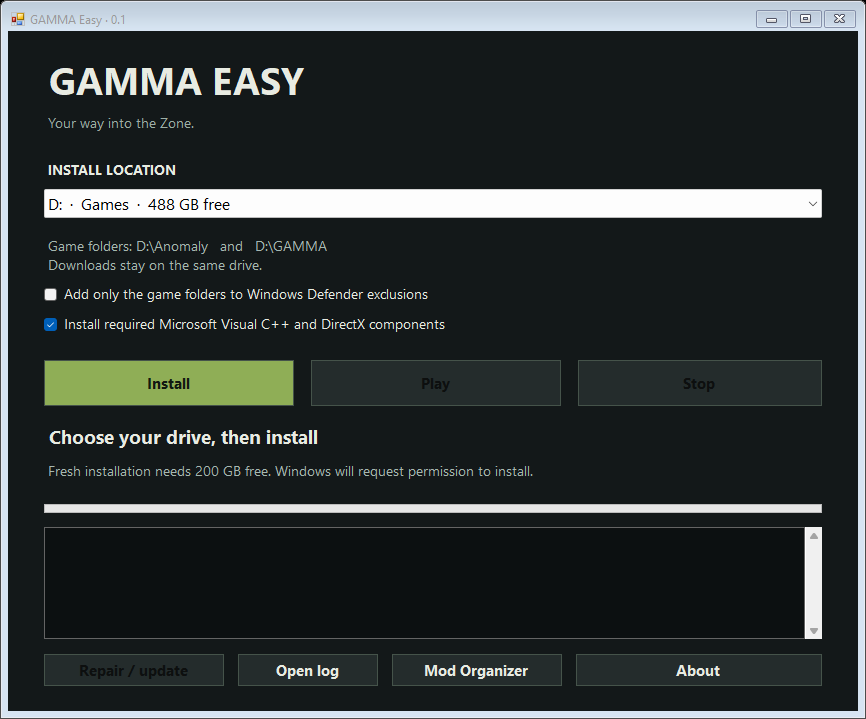
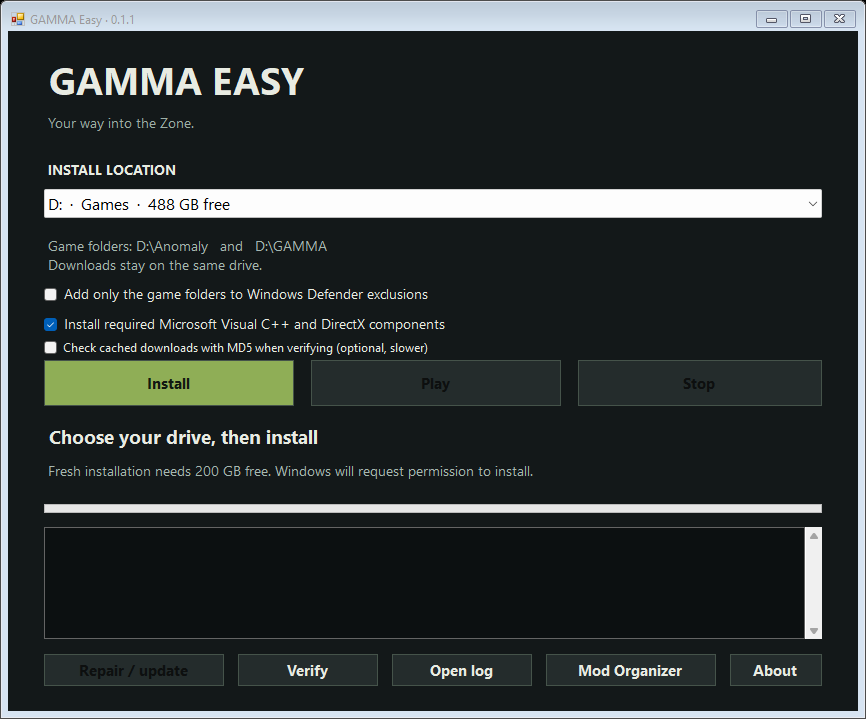
Fix finished-install validation and add optional cached MD5 audit

diff --git a/src/MainForm.cs b/src/MainForm.cs
@@ -27,7 +27,8 @@ class MainForm : Form
     ComboBox drives;
     Label location, status, detail;
     Button install, play, stop, repair;
-    CheckBox exclusions, runtimes;
+    CheckBox exclusions, runtimes, auditMd5;
+    CancellationTokenSource verifyCancel;
     ProgressBar progress;
     TextBox logs;
     InstallState state;
@@ -39,7 +40,7 @@ class MainForm : Form
     internal MainForm(InstallState saved, bool preview)
     {
         state = saved ?? new InstallState();
-        Text = "GAMMA Easy · 0.1"; ClientSize = new Size(850, 680); MinimumSize = Size;
+        Text = "GAMMA Easy · 0.1.1"; ClientSize = new Size(850, 680); MinimumSize = Size;
         BackColor = Color.FromArgb(19, 24, 25); ForeColor = Color.FromArgb(232, 235, 226);
         Font = new Font("Segoe UI", 10); StartPosition = FormStartPosition.CenterScreen;
         Controls.Add(new Label { Text = "GAMMA EASY", Font = new Font("Segoe UI", 28, FontStyle.Bold), Bounds = new Rectangle(32, 23, 600, 57) });
@@ -50,6 +51,7 @@ class MainForm : Form
         location = new Label { Bounds = new Rectangle(36, 205, 778, 44), ForeColor = Color.FromArgb(166, 183, 176) }; Controls.Add(location);
         exclusions = new CheckBox { Text = "Add only the game folders to Windows Defender exclusions", Bounds = new Rectangle(36, 251, 778, 26), Checked = state.Exclusions }; Controls.Add(exclusions);
         runtimes = new CheckBox { Text = "Install required Microsoft Visual C++ and DirectX components", Bounds = new Rectangle(36, 281, 778, 26), Checked = state.Runtimes }; Controls.Add(runtimes);
+        auditMd5 = new CheckBox { Text = "Check cached downloads with MD5 when verifying (optional, slower)", Bounds = new Rectangle(36, 307, 778, 21), Checked = false, Font = new Font("Segoe UI", 9) }; Controls.Add(auditMd5);
         install = MakeButton("Install", 36, 329, 250, true); install.Click += StartInstall;
         play = MakeButton("Play", 303, 329, 250, false); play.Click += Play;
         stop = MakeButton("Stop", 570, 329, 244, false); stop.Enabled = false; stop.Click += Cancel;
@@ -58,12 +60,14 @@ class MainForm : Form
         progress = new ProgressBar { Bounds = new Rectangle(36, 473, 778, 9), Style = ProgressBarStyle.Continuous }; Controls.Add(progress);
         logs = new TextBox { Bounds = new Rectangle(36, 496, 778, 112), Multiline = true, ReadOnly = true, ScrollBars = ScrollBars.Vertical, BackColor = Color.FromArgb(12, 16, 17), ForeColor = Color.FromArgb(174, 192, 174), Font = new Font("Consolas", 9), BorderStyle = BorderStyle.FixedSingle }; Controls.Add(logs);
         repair = MakeButton("Repair / update", 36, 623, 180, false); repair.Height = 32; repair.Click += StartInstall;
-        var openLogs = MakeButton("Open log", 230, 623, 140, false); openLogs.Height = 32; openLogs.Click += (s, e) => { if (File.Exists(Program.LogFile)) Process.Start("notepad.exe", Program.Quote(Program.LogFile)); };
-        var openMods = MakeButton("Mod Organizer", 384, 623, 170, false); openMods.Height = 32; openMods.Click += (s, e) => { if (!busy && !string.IsNullOrEmpty(state.Root)) OpenMo2(false); };
-        var license = MakeButton("About", 568, 623, 246, false); license.Height = 32; license.Click += (s, e) => MessageBox.Show("GAMMA Easy 0.1.0\nIndependent community app. Not affiliated with GAMMA, GSC or FaithBeam.\n\nInstaller engine: FaithBeam/stalker-gamma-cli 1.37.1\nhttps://github.com/FaithBeam/stalker-gamma-cli\n\nGPL-3.0-or-later. Source and third-party notices accompany this build.\nNo game files are bundled. Antivirus is never disabled.\n\nThis first build has not completed a full game installation test.", "About GAMMA Easy");
+        var verify = MakeButton("Verify", 230, 623, 140, false); verify.Height = 32;
+        verify.Click += VerifyCompleted;
+        var openLogs = MakeButton("Open log", 384, 623, 140, false); openLogs.Height = 32; openLogs.Click += (s, e) => { if (File.Exists(Program.LogFile)) Process.Start("notepad.exe", Program.Quote(Program.LogFile)); };
+        var openMods = MakeButton("Mod Organizer", 538, 623, 170, false); openMods.Height = 32; openMods.Click += (s, e) => { if (!busy && !string.IsNullOrEmpty(state.Root)) OpenMo2(false); };
+        var license = MakeButton("About", 722, 623, 92, false); license.Height = 32; license.Click += (s, e) => MessageBox.Show("GAMMA Easy 0.1.1\nIndependent community app. Not affiliated with GAMMA, GSC or FaithBeam.\n\nInstaller engine: FaithBeam/stalker-gamma-cli 1.37.1\nhttps://github.com/FaithBeam/stalker-gamma-cli\n\nGPL-3.0-or-later. Source and third-party notices accompany this build.\nNo game files are bundled. Antivirus is never disabled.\n\nGameplay still requires a real validation test.", "About GAMMA Easy");
         drives.SelectedIndexChanged += (s, e) => RefreshReady();
         timer = new System.Windows.Forms.Timer { Interval = 500 }; timer.Tick += Poll;
-        FormClosing += (s, e) => { if (busy) { Cancel(s, EventArgs.Empty); e.Cancel = true; } };
+        FormClosing += (s, e) => { if (verifyCancel != null) verifyCancel.Cancel(); if (busy) { Cancel(s, EventArgs.Empty); e.Cancel = true; } };
         if (preview)
         {
             drives.Items.Add(new DriveChoice { Root = "D:\\", Text = "D:  ·  Games  ·  488 GB free" }); drives.SelectedIndex = 0; return;
@@ -139,9 +143,40 @@ class MainForm : Form
     }
     void Cancel(object sender, EventArgs e)
     {
+        if (verifyCancel != null) { verifyCancel.Cancel(); status.Text = "Stopping cache check…"; stop.Enabled = false; return; }
         if (!busy) return;
         File.WriteAllText(Path.Combine(Program.Home, "cancel-" + request), "cancel");
         stop.Enabled = false; status.Text = "Stopping safely…";
+    }
+    async void VerifyCompleted(object sender, EventArgs e)
+    {
+        if (busy || verifyCancel != null) return;
+        if (SelectedRoot != state.Root) { detail.Text = "Select the installed game drive before verifying."; return; }
+        bool audit = auditMd5.Checked;
+        verifyCancel = new CancellationTokenSource(); var cancel = verifyCancel.Token;
+        install.Enabled = repair.Enabled = play.Enabled = drives.Enabled = auditMd5.Enabled = false;
+        stop.Enabled = true; status.Text = audit ? "Checking installation and cached MD5…" : "Checking installation…";
+        progress.Style = ProgressBarStyle.Marquee; timer.Start();
+        try
+        {
+            string summary = await Task.Run(() =>
+            {
+                int count = InstallationRecovery.VerifyFinished();
+                if (!audit) return count + " enabled mods verified. No downloads, extraction or archive MD5 scan.";
+                var result = CacheAudit.Run(state.Root + "GAMMA", cancel, Program.Log);
+                Program.Log(result.Summary);
+                return result.Summary + (result.Corrupt.Count > 0 ? " See the log; game-file verification passed." : " Game-file verification passed.");
+            });
+            if (IsDisposed) return;
+            state = Program.LoadState(); RefreshReady(); detail.Text = summary;
+        }
+        catch (OperationCanceledException) { if (!IsDisposed) { state = Program.LoadState(); RefreshReady(); detail.Text = "Optional cache check stopped; no files were changed."; } }
+        catch (Exception error) { if (!IsDisposed) { status.Text = "Verification needs attention"; detail.Text = error.Message; } }
+        finally
+        {
+            verifyCancel.Dispose(); verifyCancel = null;
+            if (!IsDisposed) { timer.Stop(); progress.Style = ProgressBarStyle.Continuous; drives.Enabled = auditMd5.Enabled = true; stop.Enabled = false; repair.Enabled = true; install.Enabled = state.Phase != "Ready"; }
+        }
     }
     void Poll(object sender, EventArgs e)
     {

diff --git a/tests/SelfTests.cs b/tests/SelfTests.cs
@@ -86,6 +86,31 @@ static class SelfTests
         string mod = Path.Combine(gamma, "mods", "TestMod"); Directory.CreateDirectory(mod); File.WriteAllText(Path.Combine(mod, "meta.ini"), "fixture");
         rejected = false; try { Safety.VerifyGame(anomaly, gamma); } catch { rejected = true; } check(rejected, "metadata-only mod blocks Play");
         File.WriteAllText(Path.Combine(mod, "test.ltx"), "fixture"); check(Safety.VerifyGame(anomaly, gamma) == 1, "complete fixture verifies");
+        string iniPath = Path.Combine(gamma, "ModOrganizer.ini");
+        string originalIni = File.ReadAllText(iniPath);
+        File.WriteAllText(iniPath, originalIni.Replace(anomaly.Replace('\\', '/'), anomaly.Replace(@"\", @"\\")));
+        check(Safety.VerifyGame(anomaly, gamma) == 1, "MO2 escaped Windows path verifies");
+        check(!Safety.SameGamePath("@ByteArray(D:\\\\Other)", "D:\\Anomaly"), "different game path still refused");
+        string canonical = Path.Combine(gamma, "mods", InstallationRecovery.CorrectName); Directory.CreateDirectory(canonical); File.WriteAllText(Path.Combine(canonical, "payload.ltx"), "fixture");
+        File.WriteAllLines(Path.Combine(profile, "modlist.txt"), new[] { "-" + InstallationRecovery.CorrectName, "+" + InstallationRecovery.BrokenName, "+TestMod" });
+        check(InstallationRecovery.RepairKnownAlias(gamma), "known upstream alias is repaired");
+        var repaired = File.ReadAllLines(Path.Combine(profile, "modlist.txt"));
+        check(repaired.Length == 2 && repaired[0] == "+" + InstallationRecovery.CorrectName, "alias preserves enabled entry priority without duplicate");
+        check(Directory.GetFiles(profile, "*.bak").Length == 1, "profile backed up before repair");
+        check(!InstallationRecovery.RepairKnownAlias(gamma), "alias repair is idempotent");
+        File.WriteAllLines(Path.Combine(profile, "modlist.txt"), new[] { "-" + InstallationRecovery.CorrectName, "+TestMod" });
+        check(!InstallationRecovery.RepairKnownAlias(gamma) && File.ReadAllLines(Path.Combine(profile, "modlist.txt"))[0].StartsWith("-"), "intentional disabled canonical mod is preserved");
+        string cache = Path.Combine(gamma, "downloads"); Directory.CreateDirectory(cache);
+        File.WriteAllText(Path.Combine(cache, "sample.zip"), "abc", new UTF8Encoding(false));
+        File.WriteAllText(Path.Combine(profile, "modpack_maker_list.txt"), "url\t0\tpatch\tname\tpage\tsample.zip\t900150983cd24fb0d6963f7d28e17f72\n");
+        var audit = CacheAudit.Run(gamma, CancellationToken.None, null);
+        check(audit.Checked == 1 && audit.Corrupt.Count == 0, "optional cached MD5 audit accepts correct bytes");
+        File.WriteAllText(Path.Combine(cache, "sample.zip"), "changed");
+        check(CacheAudit.Run(gamma, CancellationToken.None, null).Corrupt.Count == 1, "cached MD5 mismatch detected without deleting files");
+        var cancelled = new CancellationTokenSource(); cancelled.Cancel(); rejected = false;
+        try { CacheAudit.Run(gamma, cancelled.Token, null); } catch (OperationCanceledException) { rejected = true; }
+        check(rejected, "MD5 audit can be cancelled");
+        File.WriteAllText(Path.Combine(profile, "modlist.txt"), "+UnknownMod\n"); rejected = false; try { Safety.VerifyGame(anomaly, gamma); } catch { rejected = true; } check(rejected, "unknown missing mod is still refused");
         File.WriteAllText(Path.Combine(profile, "modlist.txt"), "+..\n"); rejected = false; try { Safety.VerifyGame(anomaly, gamma); } catch { rejected = true; } check(rejected, "mod path traversal refused");
         File.WriteAllLines(Path.Combine(reportFolder, "test-results.txt"), checks); return 0;
     }

diff --git a/src/CacheAudit.cs b/src/CacheAudit.cs
@@ -1,0 +1,60 @@
+// Copyright (C) 2026. GPL-3.0-or-later.
+using System;
+using System.Collections.Generic;
+using System.IO;
+using System.Security.Cryptography;
+using System.Text.RegularExpressions;
+using System.Threading;
+
+class CacheAuditResult
+{
+    internal int Checked, Unavailable, Unsupported;
+    internal readonly List<string> Corrupt = new List<string>();
+    internal string Summary { get { return "MD5 cache check: " + Checked + " checked, " + Corrupt.Count + " mismatched, " + Unavailable + " unavailable, " + Unsupported + " without usable published MD5."; } }
+}
+
+static class CacheAudit
+{
+    internal static CacheAuditResult Run(string gamma, CancellationToken cancel, Action<string> progress)
+    {
+        var result = new CacheAuditResult();
+        var expected = new Dictionary<string, string>(StringComparer.OrdinalIgnoreCase);
+        string manifest = Path.Combine(gamma, "profiles", "G.A.M.M.A", "modpack_maker_list.txt");
+        foreach (string row in File.ReadLines(manifest))
+        {
+            cancel.ThrowIfCancellationRequested();
+            var fields = row.Split('\t');
+            if (fields.Length < 7) continue;
+            string name = fields[5].Trim(), md5 = fields[6].Trim().ToLowerInvariant();
+            if (name.Length == 0 || name != Path.GetFileName(name) || name.IndexOfAny(Path.GetInvalidFileNameChars()) >= 0 || !Regex.IsMatch(md5, "^[a-f0-9]{32}$")) { result.Unsupported++; continue; }
+            string previous;
+            if (expected.TryGetValue(name, out previous) && previous != md5) throw new InvalidDataException("Conflicting MD5 values in the saved manifest: " + name);
+            expected[name] = md5;
+        }
+        // Base archive has a published digest in the pinned backend source.
+        expected["Anomaly-1.5.3-Full.2.7z"] = "d6bce51a4e6d98f9610ef0aa967ba964";
+        foreach (var entry in expected)
+        {
+            cancel.ThrowIfCancellationRequested();
+            string path = Path.Combine(gamma, "downloads", entry.Key);
+            if (!File.Exists(path)) { result.Unavailable++; continue; }
+            Safety.RejectReparseParents(path);
+            if (progress != null) progress("Checking MD5: " + entry.Key);
+            string actual = HashFile(path, cancel);
+            result.Checked++;
+            if (actual != entry.Value) { result.Corrupt.Add(entry.Key); if (progress != null) progress("MD5 mismatch: " + entry.Key); }
+        }
+        return result;
+    }
+    internal static string HashFile(string path, CancellationToken cancel)
+    {
+        using (var md5 = MD5.Create())
+        using (var file = File.OpenRead(path))
+        {
+            var buffer = new byte[131072]; int count;
+            while ((count = file.Read(buffer, 0, buffer.Length)) > 0) { cancel.ThrowIfCancellationRequested(); md5.TransformBlock(buffer, 0, count, buffer, 0); }
+            cancel.ThrowIfCancellationRequested(); md5.TransformFinalBlock(new byte[0], 0, 0);
+            return BitConverter.ToString(md5.Hash).Replace("-", "").ToLowerInvariant();
+        }
+    }
+}

diff --git a/src/InstallationRecovery.cs b/src/InstallationRecovery.cs
@@ -1,0 +1,48 @@
+// Copyright (C) 2026. GPL-3.0-or-later.
+using System;
+using System.Diagnostics;
+using System.IO;
+using System.Linq;
+using System.Text;
+
+static class InstallationRecovery
+{
+    internal const string BrokenName = "DarkasleQif's and iTheon's Parts Condition Color Thresholds Changes";
+    internal const string CorrectName = "Darkasleif's and iTheon's Parts Condition Color Thresholds Changes";
+
+    internal static bool RepairKnownAlias(string gamma)
+    {
+        string profile = Path.Combine(gamma, "profiles", "G.A.M.M.A", "modlist.txt");
+        string actual = Path.Combine(gamma, "mods", CorrectName);
+        var lines = File.ReadAllLines(profile);
+        if (!lines.Contains("+" + BrokenName) || !Directory.Exists(actual) ||
+            !Directory.EnumerateFileSystemEntries(actual).Any(x => Path.GetFileName(x) != "meta.ini")) return false;
+        if (Process.GetProcessesByName("ModOrganizer").Length > 0) throw new IOException("Close Mod Organizer before repairing the profile.");
+        Safety.RejectReparseParents(profile);
+        File.Copy(profile, profile + ".before-alias-" + Guid.NewGuid().ToString("N") + ".bak");
+        // Retain the upstream entry's position and enabled state; remove a duplicate
+        // canonical entry only when this exact upstream typo was present and enabled.
+        var repaired = lines.Where(x => x != "+" + CorrectName && x != "-" + CorrectName)
+            .Select(x => x == "+" + BrokenName ? "+" + CorrectName : x).ToArray();
+        File.WriteAllLines(profile, repaired, new UTF8Encoding(false));
+        return true;
+    }
+
+    internal static int VerifyFinished()
+    {
+        if (Process.GetProcessesByName("stalker-gamma").Length > 0 || Process.GetProcessesByName("ModOrganizer").Length > 0)
+            throw new IOException("Close Mod Organizer and let any active installation finish before verifying.");
+        var state = Program.LoadState();
+        var folders = Safety.GameFolders(state.Root);
+        if (!File.Exists(Program.LogFile)) throw new IOException("No completed installation log was found.");
+        string log = File.ReadAllText(Program.LogFile);
+        if (!Safety.Successful(log, 0) || !log.Contains("--gamma " + Program.Quote(folders[1])))
+            throw new IOException("The log does not confirm a completed backend installation for this drive. Use Retry installation.");
+        Safety.ValidateDrive(state.Root, false);
+        if (RepairKnownAlias(folders[1])) Program.Log("Corrected the known GAMMA profile name: " + CorrectName);
+        int count = Safety.VerifyGame(folders[0], folders[1]);
+        state.Phase = "Ready"; state.Error = ""; Program.SaveState(state);
+        Program.Log("Verification passed: " + count + " enabled mods. No downloads or extraction were performed.");
+        return count;
+    }
+}

diff --git a/src/Safety.cs b/src/Safety.cs
@@ -114,8 +114,8 @@ static class Safety
             if (!File.Exists(Path.Combine(gamma, file))) throw new IOException("Missing GAMMA file: " + file);
         string ini = File.ReadAllText(Path.Combine(gamma, "ModOrganizer.ini"));
         if (!ini.Contains("selected_profile=@ByteArray(G.A.M.M.A)")) throw new IOException("The GAMMA profile is not configured.");
-        string expected = "gamePath=@ByteArray(" + anomaly.Replace('\\', '/') + ")";
-        if (ini.IndexOf(expected, StringComparison.OrdinalIgnoreCase) < 0) throw new IOException("Mod Organizer points to the wrong Anomaly folder.");
+        var gamePath = Regex.Match(ini, @"(?m)^gamePath=(.*)$");
+        if (!gamePath.Success || !SameGamePath(gamePath.Groups[1].Value.Trim(), anomaly)) throw new IOException("Mod Organizer points to the wrong Anomaly folder.");
         if (!ini.Contains("title=Anomaly (DX11)")) throw new IOException("The DX11 launch entry is missing.");
         int count = 0;
         foreach (string raw in File.ReadLines(Path.Combine(gamma, "profiles", "G.A.M.M.A", "modlist.txt")))
@@ -133,6 +133,13 @@ static class Safety
         }
         if (count == 0) throw new IOException("No enabled mods were found.");
         return count;
+    }
+    internal static bool SameGamePath(string encoded, string expected)
+    {
+        if (encoded.StartsWith("@ByteArray(") && encoded.EndsWith(")")) encoded = encoded.Substring(11, encoded.Length - 12);
+        encoded = encoded.Replace(@"\\", @"\").Replace('/', '\\');
+        try { return Path.IsPathRooted(encoded) && Path.GetFullPath(encoded).TrimEnd('\\').Equals(Path.GetFullPath(expected).TrimEnd('\\'), StringComparison.OrdinalIgnoreCase); }
+        catch { return false; }
     }
     internal static bool Successful(string output, int exitCode)
     {

diff --git a/src/Worker.cs b/src/Worker.cs
@@ -43,7 +43,7 @@ static class Worker
             {
             try
             {
-                File.WriteAllText(Program.LogFile, "GAMMA Easy 0.1.0 | FaithBeam backend release 1.37.1\r\n");
+                File.WriteAllText(Program.LogFile, "GAMMA Easy 0.1.1 | FaithBeam backend release 1.37.1\r\n");
                 Program.Log("Checking drive and existing folders…");
                 Safety.ValidateDrive(state.Root, true);
                 Program.ExtractBackend(Path.Combine(Program.Home, "backend"));
@@ -60,6 +60,7 @@ static class Worker
                 if (!Safety.Successful(output, 0)) throw new IOException("The installer did not confirm completion. Read the log and retry.");
                 CheckCancel();
                 Program.Log("Checking DX11, first-run defaults, Mod Organizer and enabled mods…");
+                if (InstallationRecovery.RepairKnownAlias(folders[1])) Program.Log("Corrected a known upstream GAMMA profile naming mismatch.");
                 int count = Safety.VerifyGame(folders[0], folders[1]);
                 Program.Log("Verified " + count + " enabled mods. Ready to play.");
                 state.Phase = "Ready"; state.Error = ""; Program.SaveState(state); return 0;

diff --git a/src/Program.cs b/src/Program.cs
@@ -24,7 +24,7 @@ using System.Xml.Serialization;
 
 [assembly: AssemblyTitle("GAMMA Easy")]
 [assembly: AssemblyDescription("Independent Anomaly and GAMMA installer and launcher")]
-[assembly: AssemblyVersion("0.1.0.0")]
+[assembly: AssemblyVersion("0.1.1.0")]
 
 static class Program
 {
@@ -45,6 +45,11 @@ static class Program
         Application.SetCompatibleTextRenderingDefault(false);
         try
         {
+            if (args.Length == 1 && args[0] == "--verify-install")
+            {
+                try { int count = InstallationRecovery.VerifyFinished(); File.WriteAllText(Path.Combine(Home, "recovery-result.txt"), "PASS: " + count + " enabled mods verified. Ready to play."); return 0; }
+                catch (Exception error) { File.WriteAllText(Path.Combine(Home, "recovery-result.txt"), "FAILED: " + error.Message); return 1; }
+            }
             if (args.Length == 2 && args[0] == "--self-test")
             {
                 try { return SelfTests.Run(args[1]); }

diff --git a/docs/releases/v0.1.1.md b/docs/releases/v0.1.1.md
@@ -1,0 +1,18 @@
+# GAMMA Easy 0.1.1 — Verification fixes
+
+Fixes the final-check failure after the backend reports Install finished:
+
+- Corrects the known upstream DarkasleQif/Darkasleif mod-name mismatch when the
+  enabled misspelled entry is present and the actual mod payload exists.
+- Accepts the Windows game-path format MO2 writes to its configuration.
+- Adds Verify to check an already completed installation without downloading or
+  extracting again. The completed backend log must match the selected drive.
+- Optional cached-archive MD5 audit is off by default and can be stopped. Full
+  installer runs still perform the backend's required integrity checks.
+
+Close Mod Organizer and GAMMA Easy before updating the launcher. Install this
+version, then click Verify. Existing game files and cached downloads are retained.
+
+This is still an unsigned alpha. Verification checks are tested; actual gameplay
+and co-op have not yet been validated. Corresponding source and checksums accompany
+the Windows package.

diff --git a/docs/INSTALLATION.md b/docs/INSTALLATION.md
@@ -39,6 +39,13 @@ rehost the game or modpack. A download host may throttle, fail, or challenge a r
 
 ## Stop, retry, and update
 
+After a backend install finishes, **Verify** rechecks the files/profile without
+downloading or extracting again. Leave the optional cached-download MD5 checkbox
+off for this fast check. Enabling it scans cached archives against the saved
+published digests; Stop cancels that read-only scan. Missing cached archives do not
+mean installed game files are missing. Full install/retry still performs the
+third-party backend's own required integrity checks.
+
 **Stop** cancels the backend and its child processes. If a Microsoft runtime
 installer is running, it is allowed to finish first. Complete cached archives
 remain available; an incomplete individual archive may need a fresh download.

diff --git a/CHANGELOG.md b/CHANGELOG.md
@@ -5,6 +5,15 @@
 - Documented the planned optional xrRazom co-op integration and reversible mode
   switch. This is a research/roadmap update; no co-op functionality is shipped.
 
+## 0.1.1 — Installation verification recovery
+
+- Correct the specific upstream DarkasleQif/Darkasleif mod-name mismatch, with a
+  profile backup and preserved priority/enabled state.
+- Accept the escaped Windows game-path format written by Mod Organizer.
+- Add Verify to recheck a completed backend installation without downloads or extraction.
+- Offer an optional, cancellable cached-archive MD5 audit, disabled by default.
+- Continue rejecting unrelated missing mods and paths pointing at another game folder.
+
 ## 0.1.0 — Early alpha
 
 - Windows Forms setup, drive selection, and launcher.

diff --git a/docs/TESTING.md b/docs/TESTING.md
@@ -4,6 +4,12 @@ The initial build passed **25 checks** locally on Windows. CI is configured to r
 these from the repository. Passing them demonstrates launcher behavior; it does not demonstrate a
 working installed game.
 
+Version 0.1.1 passes **36 isolated checks**, including MO2 Windows-path parsing,
+the known upstream mod-name alias, profile backup/priority preservation, optional
+cached MD5 matching, mismatch reporting, and audit cancellation. A real completed
+installation passed file/profile verification with 578 enabled mods after the
+specific naming repair. Gameplay remains untested.
+
 | Area | Checked |
 | --- | --- |
 | Drive paths | Root normalization, nested/network/path traversal rejection, live internal-drive identification |

diff --git a/docs/TROUBLESHOOTING.md b/docs/TROUBLESHOOTING.md
@@ -43,6 +43,12 @@ disables antivirus. Third-party security software is not configured by the app.
 
 ## Play stays unavailable
 
+If the backend says Install finished but the final check fails, update to 0.1.1
+and use **Verify** with MO2 closed. This checks the completed installation without
+rerunning downloads/extraction. It fixes the specific upstream DarkasleQif spelling
+mismatch and accepts the Windows path format written by MO2. Other genuinely
+missing mods continue to be refused.
+
 An install must finish successfully and pass the local profile/file checks. Follow
 the displayed message. Restart Windows if requested after installing Microsoft
 components. Close the game and MO2 before Repair / update; this reapplies the official
